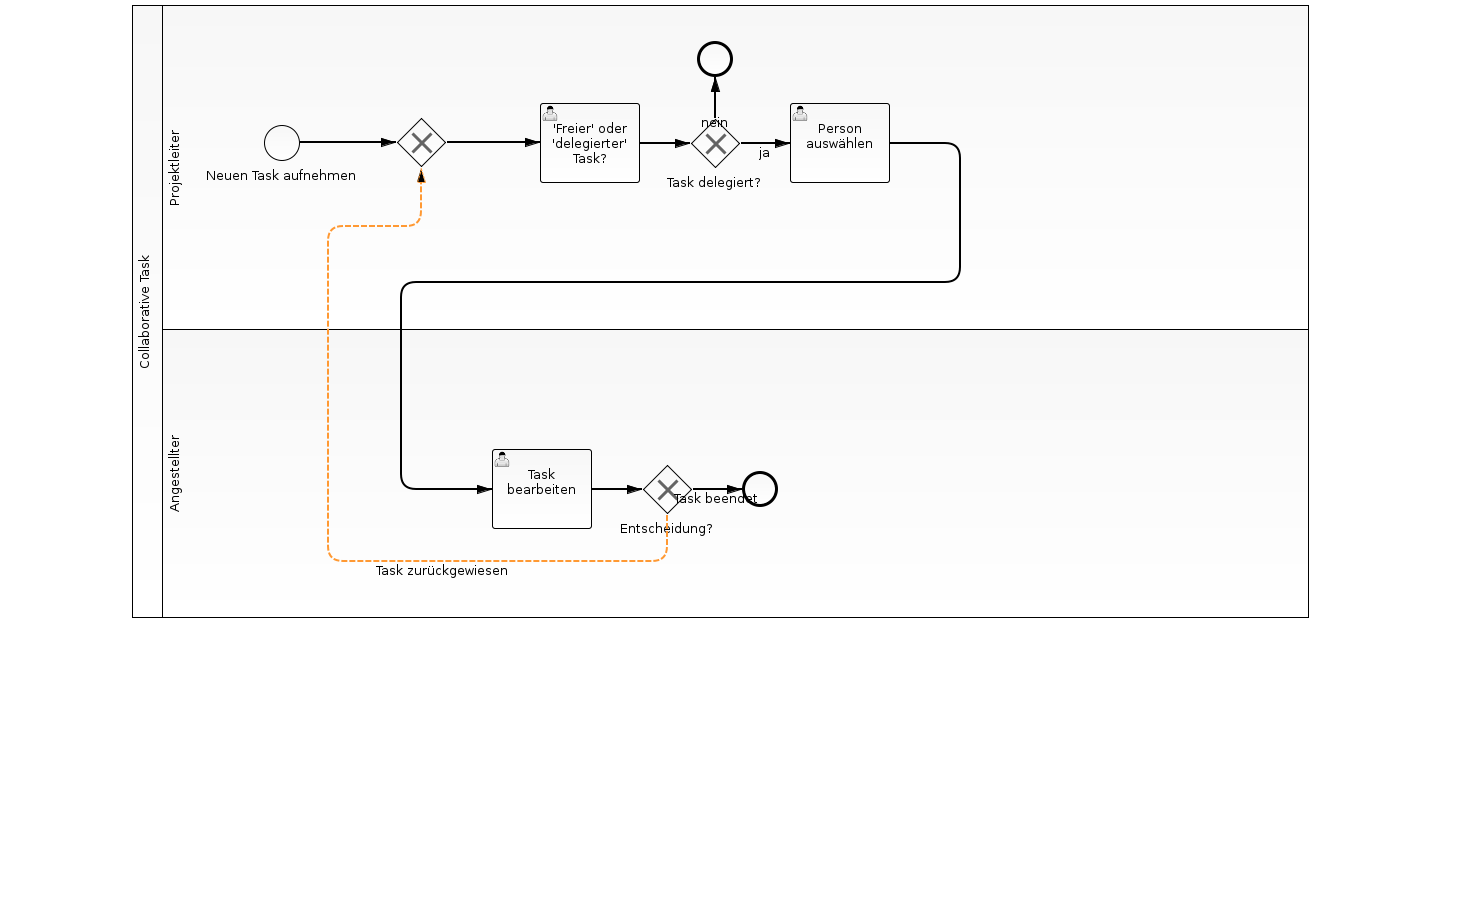
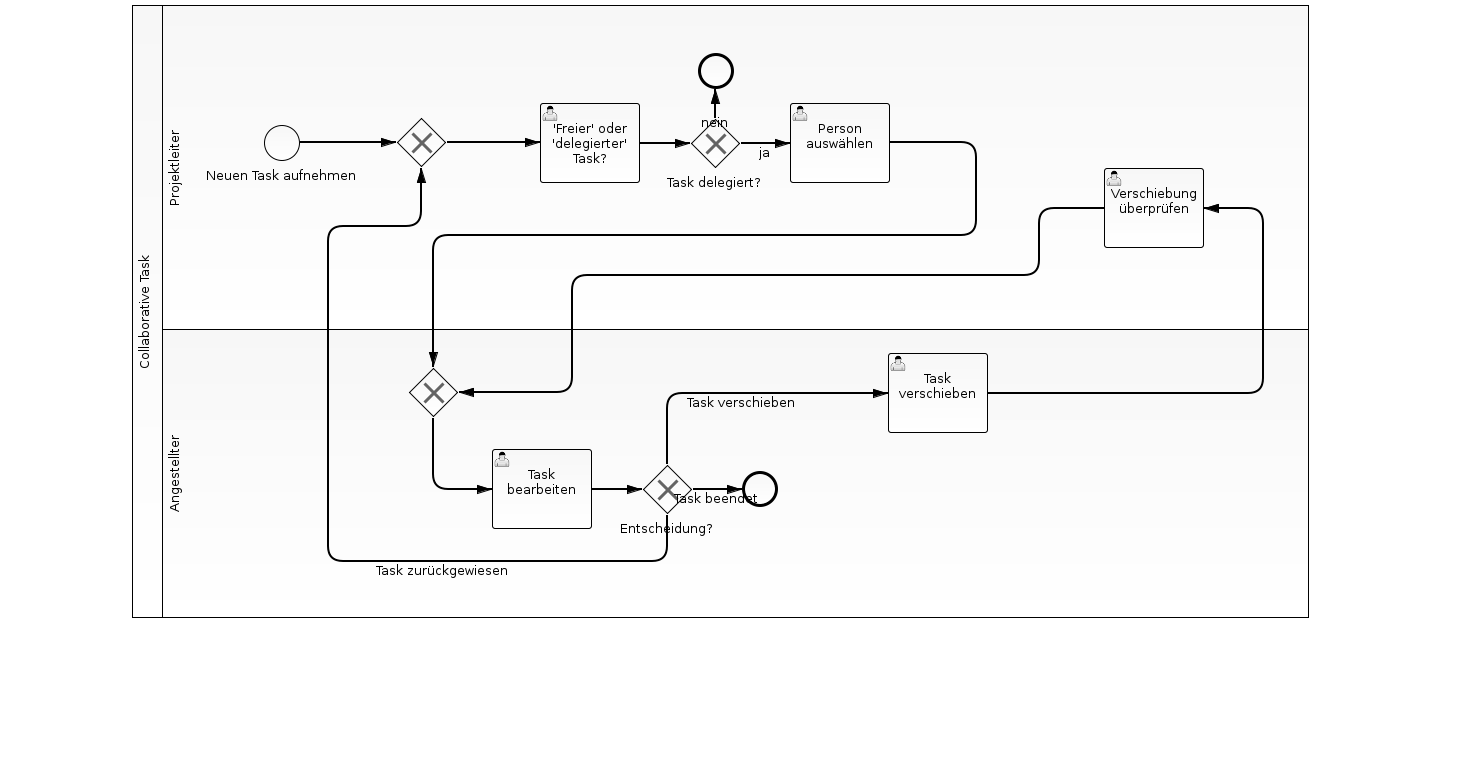
added  due dates, postponement/rejection of postponement

diff --git a/src/main/java/colltask/assignments/CustomAssignmentHandler.java b/src/main/java/colltask/assignments/CustomAssignmentHandler.java
@@ -1,22 +1,34 @@
 package colltask.assignments;
 
+import java.util.Date;
+
 import org.camunda.bpm.engine.delegate.DelegateTask;
 import org.camunda.bpm.engine.delegate.TaskListener;
 
 public class CustomAssignmentHandler implements TaskListener {
 	
-	private static String chosenUser = "";
+//	private static String chosenUser = "";
 
 	public void notify(DelegateTask delegateTask) {
 		
-		String taskId = delegateTask.getId();
+//		String taskId = delegateTask.getId();
+//		
+//		if(taskId.equals("choosePerson")) {
+//			chosenUser = (String)delegateTask.getVariable("choosePersonFromList");
+//		} else if(taskId.equals("workOnTask")) {
+//			delegateTask.setAssignee(chosenUser);
+//		} else {
+//			//well fuck
+//		}
 		
-		if(taskId.equals("choosePerson")) {
-			chosenUser = (String)delegateTask.getVariable("choosePersonFromList");
-		} else if(taskId.equals("workOnTask")) {
-			delegateTask.setAssignee(chosenUser);
-		} else {
-			//well fuck
+		//Postponement handling ----------------------------------------
+		boolean allowPostponement = (Boolean) delegateTask.getVariable("allowPostponement");
+		
+		if(allowPostponement) {
+			delegateTask.setVariable("deadline", (Date) delegateTask.getVariable("postponeDate"));
 		}
+		delegateTask.setDueDate((Date) delegateTask.getVariable("deadline"));
+		
+		
 	}
 }
